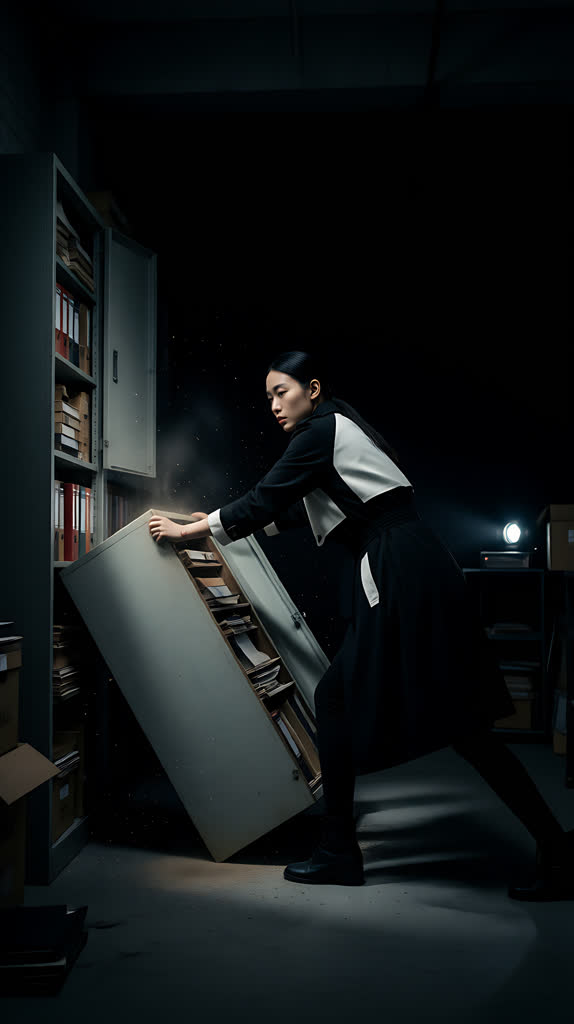
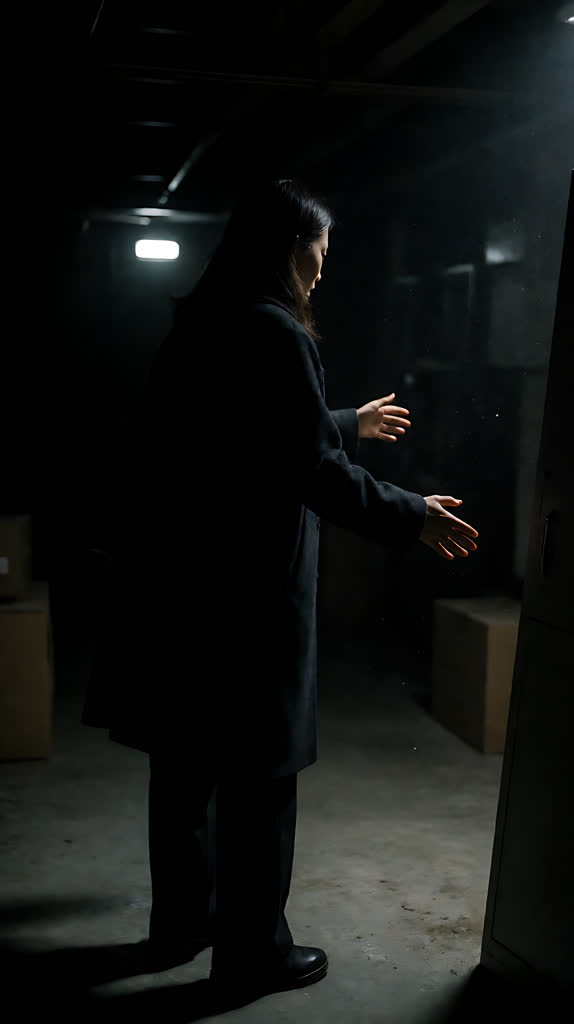
fix: EP01 S06 重做（背影被动受力，修正叙事级姿态错误）

diff --git a/03_storyboard/EP01_分镜图提示词.md b/03_storyboard/EP01_分镜图提示词.md
@@ -192,20 +192,33 @@
   ```
 - **参考资产**：`林浅_护照.png` + `顾承泽_护照.png`
 
-### 镜头 S06 ｜ 25–30s ｜ 全景 ｜ 主体动作：撞翻铁柜
+### 镜头 S06 ｜ 25–30s ｜ 全景 ｜ 主体动作：被撞击的瞬间（被动）
 
-- **画面描述**：全景。林浅**后背撞上档案柜**（**被动受力**，非主动推柜），身体因冲击前倾、重心不稳；
-  柜体受撞向后倾倒，灰尘弥漫、尘粒在微弱冷光中缓缓飘散。**无火花、无爆炸感**。
+- **画面描述**：全景。林浅**背影／侧背影**——**后背刚被撞上档案柜的瞬间**（**被动受害**，非主动发力）：
+  身体**向后仰**、双手**无力垂落或前伸抓空**、脚步踉跄失衡；**画面不出现她的正脸**。
+  柜体受撞向后倾倒，灰尘弥漫、尘粒在微弱冷光中缓缓飘散。**无火花、无爆炸、无发光颗粒**。
 - **图像提示词**：
   ```
-  [以参考图锁定林浅] 全景，女性的后背撞上身后的档案柜、身体因冲击向前倾，是被动的受力姿态，
-  不是主动推柜；柜体受撞向后倾倒，灰尘弥漫、尘粒在微弱冷光中缓缓飘散；极昏暗的地下室角落，
+  全景，女性的背影／侧背影，后背刚刚被撞上身后的档案柜的瞬间：身体向后仰、双手无力垂落并前伸
+  抓空、脚步踉跄失衡、重心失控，是被动被撞击的受害者姿态，绝不是在主动发力推柜；画面中不出现
+  女性正脸；柜体受撞向后倾倒，灰尘弥漫、尘粒在微弱冷光中缓缓飘散；极昏暗的地下室角落，
   仅一盏远处的应急灯发出微弱冷光，环境几乎被黑暗吞没，背景以纯黑为主、几乎看不到任何物件；
   电影感写实摄影，35mm胶片质感，浅景深偏深，高对比度阴影，竖屏9:16构图，真实亚洲面孔；
-  不要动漫风，不要3D渲染，不要过度美颜，不要主动推柜，不要爆炸，不要火花，不要金色粒子，
-  不要明亮环境，不要多盏灯光，不要纸箱杂物，不要库房货架，不要现代办公场景
+  不要正脸，不要双手推柜，不要身体前倾发力，不要主动推柜，不要爆炸，不要火花，不要金色粒子，
+  不要发光颗粒，不要动漫风，不要3D渲染，不要过度美颜，不要明亮环境，不要多盏灯光，不要纸箱杂物，
+  不要库房货架，不要现代办公场景
   ```
-- **参考资产**：`林浅_护照.png`
+- **参考资产**：**无**（不传护照图）——本镜为**背影／侧背影**，护照是**正面半身像**，传入会诱导模型保留正脸，
+  与\"不拍正脸、避免表情主动\"的要求直接冲突（同 S01 v1 的翻车机制）。
+  > ⚠ 本镜景别为「全景」，**不在脚本「特写剥离护照」规则内**，故此处由文档显式标注「无」。
+  > 若后续新增背影镜，建议一并沿用「背影镜不传护照」这一判断。
+- **重做记录**：
+  - **v1**（2026-10-11）：出现**叙事级错误**——林浅双手抓柜、**主动推倒**（主动发力），
+    与后续剧情「林浅被诬陷为杀人犯」矛盾（她必须是受害者姿态）；且仍残留**金色粒子**。
+  - **v2**（2026-10-11）：改**背影／侧背影**（不拍正脸，避免表情的"主动性"）；动作重定义为
+    **"被撞击的瞬间"**（非"撞击"）；加「身体向后仰 + 双手无力垂落／前伸抓空 + 脚步踉跄」；
+    负面词加强为 `不要双手推柜、不要身体前倾发力、不要金色粒子、不要火花、不要爆炸、不要发光颗粒`；
+    **不传护照图**。
 
 ### 镜头 S07a ｜ 30–35s ｜ 中景 ｜ 主体动作：后退半步
 
@@ -277,7 +290,7 @@
 | S03 | 10–15 | 近景 | 枪口挑下巴 | `SC_EP01_S03.png` | `VID_EP01_S03.mp4` |
 | S04 | 15–20 | 大特写 | 瞳孔骤缩 | `SC_EP01_S04.png` | `VID_EP01_S04.mp4` |
 | S05 | 20–25 | 中景 | 后退一步 | `SC_EP01_S05.png` | `VID_EP01_S05.mp4` |
-| S06 | 25–30 | 全景 | 撞翻铁柜 | `SC_EP01_S06.png` | `VID_EP01_S06.mp4` |
+| S06 | 25–30 | 全景·背影 | 被撞击的瞬间（被动） | `SC_EP01_S06.png` | `VID_EP01_S06.mp4` |
 | S07a | 30–35 | 中景 | 后退半步 | `SC_EP01_S07a.png` | `VID_EP01_S07a.mp4` |
 | S07b | 35–40 | 特写 | 扣紧扳机 | `SC_EP01_S07b.png` | `VID_EP01_S07b.mp4` |
 | S08 | 40–45 | 中景·对称构图 | 枪口直指眉心 | `SC_EP01_S08.png` | `VID_EP01_S08.mp4` |
@@ -288,7 +301,9 @@
 ## 七、一致性要点
 
 1. **面孔锁定**：含面部的镜（中景/近景/面部特写）用护照图作 `extra_body.image`，确保跨镜、跨集同一张脸；
-   **非面部局部特写镜例外**（见第三节规则），改为提示词显式排除面部。
+   **两类例外**（改为提示词显式排除面部，不传护照）：
+   - **非面部局部特写镜**（手 / 道具 / 器物，见第三节规则）；
+   - **背影／侧背影镜**（本集 S06）——护照是**正面半身像**，传入会诱导模型保留正脸。
 2. **服装锁定**：林浅＝黑白极简风衣；顾承泽＝深色三件套西装＋金丝眼镜＋左腕旧机械表。
 3. **光线锁定**：全片统一「地下档案室应急灯冷光」，不得逐镜漂移。
    ⚠ **基调红线（2026-10-11 升级）**：EP01 是**极昏暗、单一光源**的冷冽悬疑基调——
@@ -297,8 +312,11 @@
    （`不要明亮环境，不要多盏灯光，不要纸箱杂物，不要库房货架，不要现代办公场景`），
    并采用第四节收紧后的场景锚点句（"几乎全黑"）。出图后逐张核对。
 4. **单一动作**：每镜只含 1 个主体动作；出现两个动作即回 `docs/分镜规范.md` 拆镜。
-5. **S06 因果与受力方向**：撞柜（动）与灰尘弥漫（果）同镜呈现，但不叠加第二个主体动作；
-   **必须是"林浅被撞（被动受力）"**，不是"林浅主动推柜"；**不得出现火花／金色粒子／爆炸感**。
+5. **⭐ S06 受力方向＝叙事红线**：本镜是**"被撞击的瞬间"（被动受害）**，不是"撞击"（主动施暴）。
+   必须呈现**背影／侧背影**（不拍正脸，避免表情的"主动性"）+ **身体向后仰 / 双手无力垂落或前伸抓空 /
+   脚步踉跄**；**不得出现双手推柜、身体前倾发力、火花、金色粒子、爆炸感**。
+   > 理由：后续剧情「林浅被诬陷为杀人犯」——她必须是**受害者姿态**。此镜若画成主动发力，
+   > 属**叙事级错误**（非构图细节），必须回炉，不接受。
 6. **S09 黑屏**：黑屏在剪辑阶段加，生成时只保证「手指按下」这一个动作。
 7. **⭐ 三处「枪镜」必须视觉差异化**（避免构图重复）：
    本集 S02 / S03 / S08 都含"枪"，但**视觉重心各不相同**，生成后须逐张核对：

diff --git a/docs/PROGRESS.md b/docs/PROGRESS.md
@@ -188,7 +188,26 @@
   纸箱残余可用**后期调色统一压暗**兜底：
   `ffmpeg -i SC_EP01_SXX.jpg -vf "eq=brightness=-0.2:contrast=1.4:saturation=0.6" SC_EP01_SXX_dark.jpg`
 
+### S06 单独重做（2026-10-11，第④步，叙事级修正）
+
+- **触发**：用户整体接受当前版本，但判定 **S06 属叙事级错误**（非构图细节）——剧本为"林浅**被撞上柜**（被动受害）"，
+  而重做图仍是"双手抓柜、**主动推倒**（主动发力）"，且**残留金色粒子**。
+  该姿态与后续剧情「林浅被诬陷为杀人犯」直接矛盾（她必须是受害者）。
+- **文档修复**（`03_storyboard/EP01_分镜图提示词.md`）：
+  - S06 改为**背影／侧背影**（不拍正脸，避免表情的"主动性"）；
+  - 主体动作重定义为 **"被撞击的瞬间"（被动）**，非"撞击"；加「身体向后仰 + 双手无力垂落／前伸抓空 + 脚步踉跄」；
+  - 负面词加强：`不要正脸，不要双手推柜，不要身体前倾发力，不要主动推柜，不要爆炸，不要火花，不要金色粒子，不要发光颗粒`；
+  - **参考资产改为「无」**（本镜为背影，护照是正面半身像，传入会诱导保留正脸——同 S01 v1 的翻车机制）；
+    并标注：**S06 景别为「全景」，不在脚本「特写剥离护照」规则内，故由文档显式标注「无」**。
+  - 第七节把「S06 受力方向」升级为**叙事红线**，明确"画成主动发力 → 属叙事级错误，必须回炉"。
+- 命令：`python gen_storyboard.py --ep 01 --compress --force --only S06`（**1 次调用**，零限流）
+- **结果：成功 1 ｜ 跳过 0 ｜ 失败 0**；产物 `SC_EP01_S06.jpg`（574×1024 / 23 KB），2K 原图归档 `_hires/`。
+- ✅ **叙事级错误已修正**：画面呈**背影**、**双手前伸抓空**、**脚步踉跄、重心失控**——被动受害姿态成立，**无正脸、无火花／金色粒子**。
+- ⚠ 残余（按止步条件接受）：背景两侧仍有零星纸箱；柜体倾倒感不明显。
+
 ---
+
+## 四、下一步待办
 
 ## 四、下一步待办
 

diff --git a/.workbuddy/memory/MEMORY.md b/.workbuddy/memory/MEMORY.md
@@ -61,6 +61,11 @@
   **非面部局部**（手/道具/器物）会诱导模型保留人脸、弱化裁切 → **不传**（EP01：S01/S07b/S09）；
   对**面部局部**（眼睛/嘴唇）反而是正收益（保持双眼形状、睫毛、眼神一致）→ **仍传**
   （EP01：S04）。脚本以常量 `CLOSEUP_KEEP_REFS = {"S04"}` 白名单控制，新增面部特写镜在此登记
+- ⭐ **背影／侧背影镜不传护照**（2026-10-11 S06 裁定）：护照是**正面**半身像，传入会诱导模型保留正脸，
+  与"不拍正脸"直接冲突。⚠ **此规则脚本不自动执行**——`decide_refs` 只按「特写」剥离，
+  **全景背影镜（如 S06）须由文档「参考资产」显式标注「无」**
+- ⭐ **S06 受力方向＝叙事红线**（2026-10-11）：必须**被动受害**（背影 + 向后仰 + 双手前伸抓空 + 脚步踉跄），
+  不得画成**主动推柜/发力**——否则与后续「林浅被诬陷为杀人犯」矛盾，属**叙事级错误**，必须回炉（不接受）
 - ⭐ **场景基调红线（EP01）**：极昏暗、**单一应急灯光源**的冷冽悬疑——禁止多盏荧光灯 / 明亮办公场景 /
   纸箱杂物；提示词须带负面约束 `不要明亮环境，不要多盏灯光，不要纸箱杂物`，出图后逐张核对
 - ⚠ **实测教训（2026-10-11 十镜批量）**：仅靠场景锚点句（`深夜地下档案室，昏暗应急灯冷光…`）
